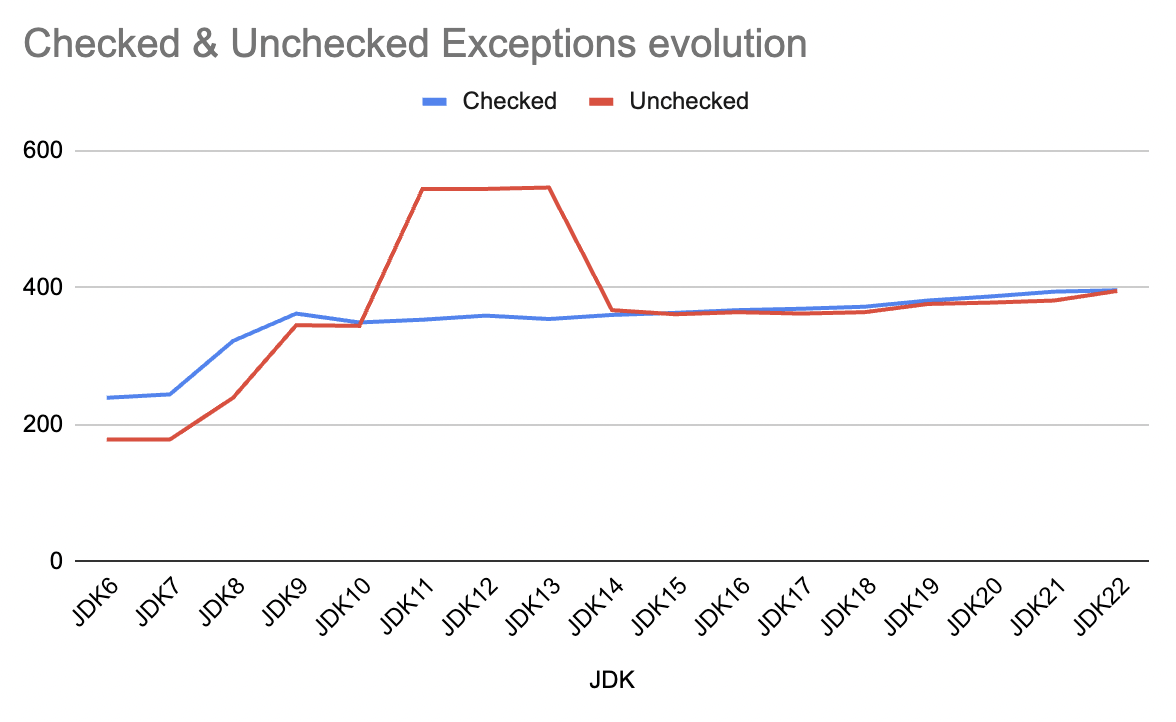
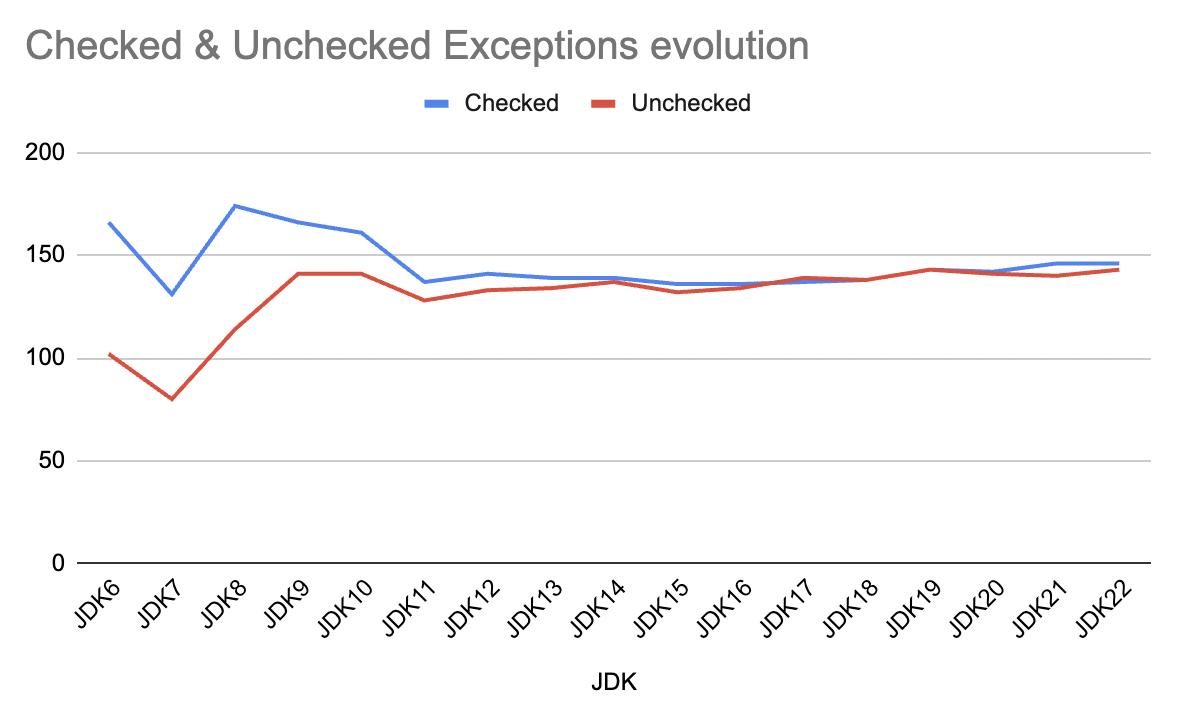
Improving data (#3)
* Improving data

diff --git a/src/main/java/info/jab/jdk/ExceptionCounter.java b/src/main/java/info/jab/jdk/ExceptionCounter.java
@@ -46,20 +46,24 @@ public class ExceptionCounter {
         };
 
         Function<List<String>, Long> countCheckedExceptions = param -> {
+            logger.info("Counting Checked Exceptions");
             return param
                 .stream()
                 .flatMap(getFilesFromPath)
                 .filter(Files::isRegularFile)
+                .filter(p -> p.getFileName().toString().contains("Exception.java"))
                 .filter(containsCheckedExceptionPattern)
                 //.peek(System.out::println)
                 .count();
         };
 
         Function<List<String>, Long> countUncheckedExceptions = param -> {
+            logger.info("Counting Unchecked Exceptions");
             return param
                 .stream()
                 .flatMap(getFilesFromPath)
                 .filter(Files::isRegularFile)
+                .filter(p -> p.getFileName().toString().contains("Exception.java"))
                 .filter(containsUncheckedExceptionPattern)
                 //.peek(System.out::println)
                 .count();

diff --git a/README.md b/README.md
@@ -11,27 +11,25 @@ Source: https://web.deu.edu.tr/doc/oreily/java/langref/ch09_04.htm
 
 ![](./docs/exception-evolution.png)
 
-| JDK   | Checked exceptions | Unchecked exceptions |
+| JDK   | Checked Exceptions | Unchecked Exceptions |
 |-------|--------------------|----------------------|
-| JDK6  | 239                | 178                  |
-| JDK7  | 244                | 178                  |
-| JDK8  | 322                | 239                  |
-| JDK9  | 362                | 345                  |
-| JDK10 | 349                | 344                  |
-| JDK11 | 353                | 544                  |
-| JDK12 | 359                | 544                  |
-| JDK13 | 354                | 546                  |
-| JDK14 | 360                | 367                  |
-| JDK15 | 363                | 361                  |
-| JDK16 | 367                | 364                  |
-| JDK17 | 369                | 362                  |
-| JDK18 | 372                | 364                  |
-| JDK19 | 381                | 376                  |
-| JDK20 | 387                | 378                  |
-| JDK21 | 394                | 381                  |
-| JDK22 | 396                | 395                  |
-
-
+| JDK6  | 166                | 102                  |
+| JDK7  | 131                | 80                   |
+| JDK8  | 174                | 114                  |
+| JDK9  | 166                | 141                  |
+| JDK10 | 161                | 141                  |
+| JDK11 | 137                | 128                  |
+| JDK12 | 141                | 133                  |
+| JDK13 | 139                | 134                  |
+| JDK14 | 139                | 137                  |
+| JDK15 | 136                | 132                  |
+| JDK16 | 136                | 134                  |
+| JDK17 | 137                | 139                  |
+| JDK18 | 138                | 138                  |
+| JDK19 | 143                | 143                  |
+| JDK20 | 142                | 141                  |
+| JDK21 | 146                | 140                  |
+| JDK22 | 146                | 143                  |
 
 ## How to build in local?
 
@@ -47,7 +45,6 @@ git submodule add https://github.com/openjdk/jdk13
 git submodule add https://github.com/openjdk/jdk14
 git submodule add https://github.com/openjdk/jdk15
 git submodule add https://github.com/openjdk/jdk16
-
 git submodule add https://github.com/openjdk/jdk17
 git submodule add https://github.com/openjdk/jdk18
 git submodule add https://github.com/openjdk/jdk19
